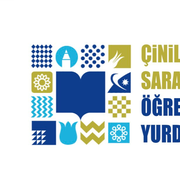
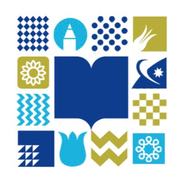
PWA ikon ortalama duzeltmesi.
Cini logosu sik kirpildi ve kare zemin uzerinde merkezlendi.

diff --git a/templates/includes/pwa_head.html b/templates/includes/pwa_head.html
@@ -6,6 +6,6 @@
 <meta name="apple-mobile-web-app-title" content="{{ panel_mobile_short|default:panel_short }}">
 <meta name="application-name" content="{{ panel_mobile_short|default:panel_short }}">
 <link rel="manifest" href="{% url 'web_manifest' %}">
-<link rel="apple-touch-icon" sizes="180x180" href="{% static 'images/cinili-saray-pwa-icon-180.png' %}">
-<link rel="icon" type="image/png" sizes="192x192" href="{% static 'images/cinili-saray-pwa-icon-192.png' %}">
-<link rel="icon" type="image/png" sizes="512x512" href="{% static 'images/cinili-saray-pwa-icon.png' %}">
+<link rel="apple-touch-icon" sizes="180x180" href="{% static 'images/cinili-saray-pwa-icon-180.png' %}?v=2">
+<link rel="icon" type="image/png" sizes="192x192" href="{% static 'images/cinili-saray-pwa-icon-192.png' %}?v=2">
+<link rel="icon" type="image/png" sizes="512x512" href="{% static 'images/cinili-saray-pwa-icon.png' %}?v=2">

diff --git a/templates/base.html b/templates/base.html
@@ -124,7 +124,7 @@
 <script src="{% static 'js/multi-select-filter.js' %}"></script>
 <script src="{% static 'js/bildirim-bell.js' %}"></script>
 <script src="{% static 'js/cs-table-mobile.js' %}?v=5"></script>
-<script src="{% static 'js/pwa-install.js' %}?v=1"></script>
+<script src="{% static 'js/pwa-install.js' %}?v=2"></script>
 {% block extra_js %}{% endblock %}
 </body>
 </html>

diff --git a/templates/yonetim/base.html b/templates/yonetim/base.html
@@ -110,7 +110,7 @@
 <script src="{% static 'js/multi-select-filter.js' %}"></script>
 <script src="{% static 'js/bildirim-bell.js' %}"></script>
 <script src="{% static 'js/cs-table-mobile.js' %}?v=5"></script>
-<script src="{% static 'js/pwa-install.js' %}?v=1"></script>
+<script src="{% static 'js/pwa-install.js' %}?v=2"></script>
 {% block extra_js %}{% endblock %}
 </body>
 </html>

diff --git a/templates/ogretmen/base.html b/templates/ogretmen/base.html
@@ -88,7 +88,7 @@
 {% endif %}
 <script src="{% static 'js/bildirim-bell.js' %}"></script>
 <script src="{% static 'js/cs-table-mobile.js' %}?v=5"></script>
-<script src="{% static 'js/pwa-install.js' %}?v=1"></script>
+<script src="{% static 'js/pwa-install.js' %}?v=2"></script>
 {% block extra_js %}{% endblock %}
 </body>
 </html>

diff --git a/templates/veli/base.html b/templates/veli/base.html
@@ -93,7 +93,7 @@
 {% endif %}
 <script src="{% static 'js/bildirim-bell.js' %}"></script>
 <script src="{% static 'js/cs-table-mobile.js' %}?v=5"></script>
-<script src="{% static 'js/pwa-install.js' %}?v=1"></script>
+<script src="{% static 'js/pwa-install.js' %}?v=2"></script>
 {% block extra_js %}{% endblock %}
 </body>
 </html>

diff --git a/templates/talebe/base.html b/templates/talebe/base.html
@@ -84,7 +84,7 @@
 <script src="{% static 'js/ai-zekasi.js' %}"></script>
 {% endif %}
 <script src="{% static 'js/cs-table-mobile.js' %}?v=5"></script>
-<script src="{% static 'js/pwa-install.js' %}?v=1"></script>
+<script src="{% static 'js/pwa-install.js' %}?v=2"></script>
 {% block extra_js %}{% endblock %}
 </body>
 </html>

diff --git a/templates/registration/login.html b/templates/registration/login.html
@@ -138,6 +138,6 @@
     </div>
 </div>
 <script src="{% static 'js/login-portal.js' %}"></script>
-<script src="{% static 'js/pwa-install.js' %}?v=1"></script>
+<script src="{% static 'js/pwa-install.js' %}?v=2"></script>
 </body>
 </html>

diff --git a/static/sw.js b/static/sw.js
@@ -1,6 +1,6 @@
 /* Çinili Saray Proje — minimal service worker (ana ekrana ekle / yükle) */
 
-const SW_VERSION = "csp-pwa-1";
+const SW_VERSION = "csp-pwa-2";
 
 self.addEventListener("install", (event) => {
     self.skipWaiting();
